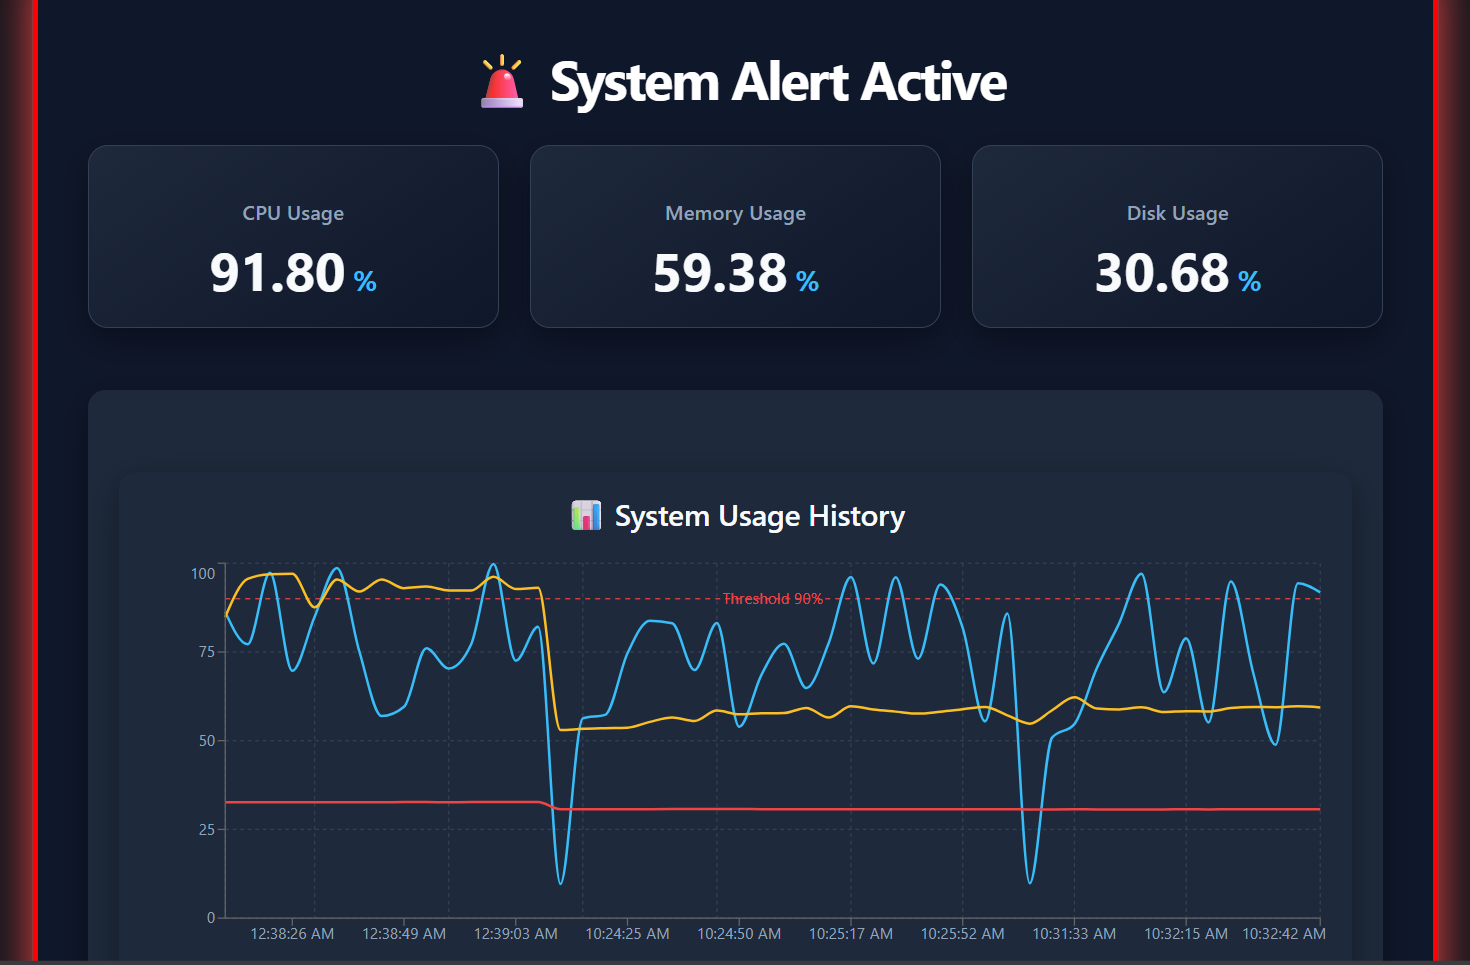
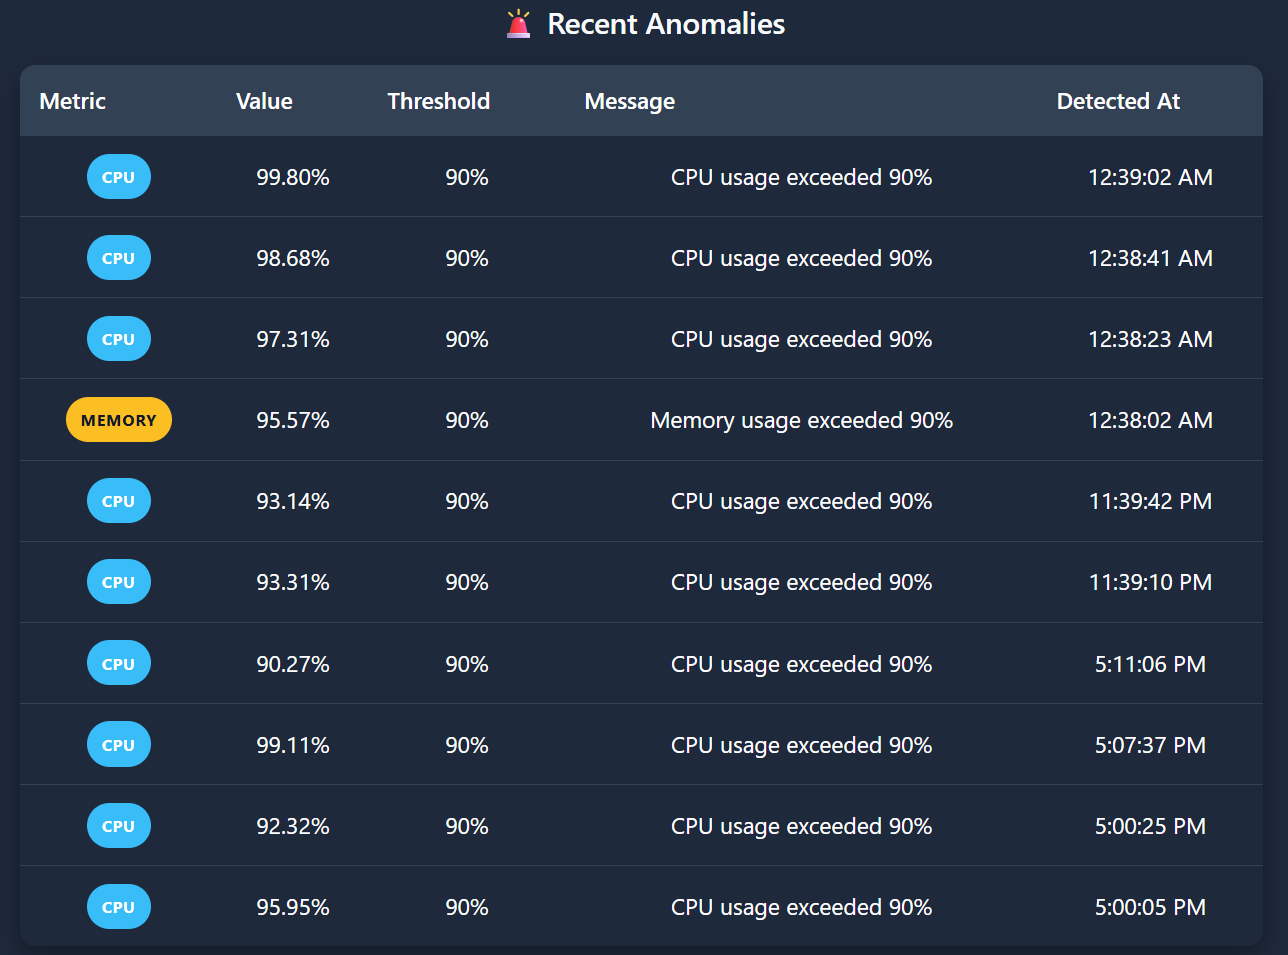
Add images

diff --git a/README.md b/README.md
@@ -138,9 +138,9 @@ Displays:
 
 ![Dashboard](docs/dashboard.png)
 
-### Metrics Chart
+### Anomaly Alert
 
-![Chart](docs/chart.png)
+![Chart](docs/anomaly-alert.png)
 
 ### Anomaly Table
 